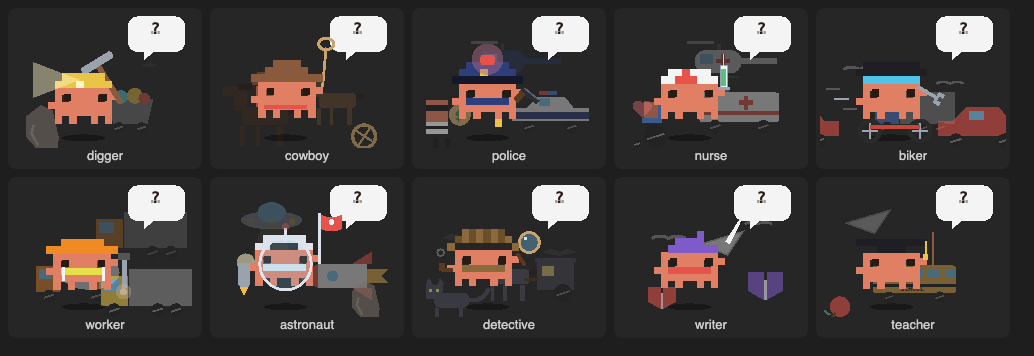
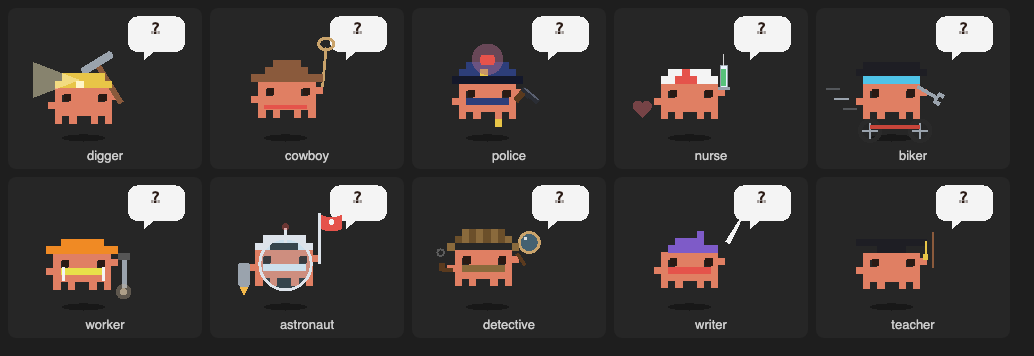
agents-panel 0.7.0: no background animation, just the character, its tool and the gag

diff --git a/mods/agents-panel/hooks/register.tsx b/mods/agents-panel/hooks/register.tsx
@@ -642,94 +642,6 @@ function useParts(c: Character, [tx, ty]: [number, number]): Use {
   }
 }
 
-// Things that pass behind the character, drawn facing left (the way they travel) from their bottom-left corner.
-const wheel = (cx: number, r = 0.6) =>
-  `<g transform="translate(${cx} ${-r})"><circle r="${r}" fill="#222"/><g>${spin('0;-360', 0.5)}<rect x="-0.08" y="${-r * 0.8}" width="0.16" height="${r * 1.6}" fill="#888"/></g></g>`
-const flap = (a: string, b: string, fill: string, dur = 0.3) =>
-  `<path d="${a}" fill="${fill}"><animate attributeName="d" values="${a};${b};${a}" dur="${dur}s"${rep}/></path>`
-const blinker = (x: number, y: number, a: string, b: string) =>
-  `<rect x="${x}" y="${y}" width="0.8" height="0.4" fill="${a}"><animate attributeName="fill" values="${a};${b}" dur="0.4s" calcMode="discrete"${rep}/></rect>`
-const MOVERS = {
-  rock: `<g>${spin('0 1.6 -1;-360 1.6 -1', 1.4)}<path d="M0 -0.2 l0.5 -1.4 1.3 -0.7 1.5 0.4 0.6 1.3 -0.6 0.8 -2.2 0z" fill="#7A7068"/><path d="M0.9 -1.5 l1 -0.3 0.6 0.3" stroke="#A09488" stroke-width="0.2" fill="none"/></g>`,
-  bat: flap('M0 0 q1 -1.2 2 0 q1 -1.2 2 0 l-2 0.6z', 'M0 0 q1 1 2 0 q1 1 2 0 l-2 0.6z', '#4A3A55', 0.25),
-  cart: `<path d="M0 -3 h4 l-0.5 2.2 h-3z" fill="#7A7A7A"/><circle cx="1.2" cy="-3.2" r="0.6" fill="#56D4DD"/><circle cx="2.4" cy="-3.3" r="0.7" fill="#E8C547"/><circle cx="3.2" cy="-3.1" r="0.5" fill="#E5534B"/>` + wheel(1, 0.5) + wheel(3, 0.5),
-  horse: (coat: string, rider: boolean) =>
-    `<g>${move('0 0;0 -0.4;0 0', 0.32)}<rect x="1" y="-3.4" width="4" height="1.6" rx="0.4" fill="${coat}"/><rect x="0.3" y="-4.8" width="1.1" height="1.8" fill="${coat}"/>` +
-    `<rect x="-0.7" y="-5.2" width="1.8" height="0.9" rx="0.3" fill="${coat}"/><rect x="0.6" y="-5.4" width="1.2" height="0.5" fill="#2A1A14"/><rect x="5" y="-3.3" width="1" height="0.5" fill="#2A1A14"/>` +
-    (rider ? `<rect x="2.2" y="-5.2" width="1.6" height="1.8" fill="#E07F63"/><rect x="1.8" y="-5.8" width="2.4" height="0.5" fill="#8A5A3C"/><rect x="2.3" y="-6.4" width="1.4" height="0.6" fill="#8A5A3C"/>` : '') + `</g>` +
-    `<g>${move('0 0;-0.5 -0.2;0.4 0;0 0', 0.32)}<rect x="1.2" y="-1.8" width="0.4" height="1.8" fill="${coat}"/><rect x="4.4" y="-1.8" width="0.4" height="1.8" fill="${coat}"/></g>` +
-    `<g>${move('0 0;0.5 -0.2;-0.4 0;0 0', 0.32)}<rect x="1.8" y="-1.8" width="0.4" height="1.8" fill="${coat}"/><rect x="3.8" y="-1.8" width="0.4" height="1.8" fill="${coat}"/></g>`,
-  tumbleweed: `<g>${spin('0 1 -1;-360 1 -1', 0.8)}<circle cx="1" cy="-1" r="1" fill="none" stroke="#C9A36B" stroke-width="0.3"/><path d="M0.3 -1.4 L1.7 -0.5 M0.5 -0.3 L1.5 -1.8" stroke="#C9A36B" stroke-width="0.2"/></g>`,
-  buzzard: flap('M0 0 q1.5 -1 3 0 q1.5 -1 3 0 l-3 0.5z', 'M0 0 q1.5 0.8 3 0 q1.5 0.8 3 0 l-3 0.5z', '#5A3A2A', 0.6),
-  policeCar: `<path d="M0 -1.2 v-1.2 h1.4 l1 -1 h2.6 l0.8 1 h1.4 v1.2z" fill="#F4F4F4"/><rect x="0" y="-2" width="7.2" height="0.6" fill="#2D3E7A"/>` +
-    blinker(2.6, -4, '#E5534B', '#4F86E0') + blinker(3.4, -4, '#4F86E0', '#E5534B') + `<rect x="2.6" y="-3.3" width="1" height="0.7" fill="#7FD1FF"/>` + wheel(1.6) + wheel(5.6),
-  robber: `<g>${move('0 0;0 -0.5;0 0', 0.3)}<rect x="0" y="-3.6" width="1.8" height="1.8" fill="#E07F63"/><rect x="0" y="-3.2" width="1.8" height="0.5" fill="#1E1E24"/>` +
-    `<rect x="0" y="-1.8" width="1.8" height="1" fill="#F4F4F4"/><rect x="0" y="-1.5" width="1.8" height="0.3" fill="#1E1E24"/>` +
-    `<circle cx="2.8" cy="-2.4" r="0.9" fill="#C9A36B"/>${word(2.35, -2, '$', '#3E7A3E', 1.1)}</g>` +
-    `<g>${move('0 0;0.4 0;-0.4 0;0 0', 0.3)}<rect x="0.2" y="-0.8" width="0.4" height="0.8" fill="#1E1E24"/><rect x="1.2" y="-0.8" width="0.4" height="0.8" fill="#1E1E24"/></g>`,
-  helicopter: (cross: boolean) =>
-    `<rect x="0.6" y="-2.6" width="3.6" height="1.8" rx="0.8" fill="${cross ? '#F4F4F4' : '#2D3E7A'}"/><rect x="4" y="-2" width="3" height="0.5" fill="${cross ? '#F4F4F4' : '#2D3E7A'}"/>` +
-    `<rect x="1" y="-2.3" width="1" height="0.8" fill="#7FD1FF"/>` + (cross ? `<rect x="2.6" y="-2.3" width="0.3" height="1.1" fill="#E5534B"/><rect x="2.2" y="-1.9" width="1.1" height="0.3" fill="#E5534B"/>` : '') +
-    `<rect x="2.3" y="-3.1" width="0.3" height="0.5" fill="#555"/><rect x="0" y="-3.3" width="5" height="0.25" fill="#999"><animate attributeName="width" values="5;0.6;5" dur="0.15s"${rep}/></rect>` +
-    `<rect x="1" y="-0.6" width="3" height="0.2" fill="#555"/>`,
-  ambulance: `<rect x="0" y="-3.6" width="7" height="2.6" rx="0.3" fill="#F4F4F4"/><rect x="0" y="-2" width="7" height="0.4" fill="#E5534B"/>` +
-    `<rect x="0.3" y="-3.2" width="1.2" height="1" fill="#7FD1FF"/><rect x="3.9" y="-3.3" width="0.4" height="1.2" fill="#E5534B"/><rect x="3.5" y="-2.9" width="1.2" height="0.4" fill="#E5534B"/>` +
-    blinker(1.8, -4, '#4F86E0', '#F4F4F4') + wheel(1.4) + wheel(5.6),
-  wheelchair: `<rect x="0.6" y="-2.6" width="1.6" height="0.4" fill="#4F86E0"/><rect x="2" y="-3.8" width="0.4" height="1.6" fill="#4F86E0"/>` +
-    `<rect x="0.8" y="-4" width="1.2" height="1.4" fill="#E07F63"/>` + wheel(1.8, 1) + wheel(0.2, 0.35),
-  car: (color: string) => `<path d="M0 -1 v-1.2 h1.2 l1.2 -1.2 h2.6 l1 1.2 h1.2 v1.2z" fill="${color}"/><rect x="2.6" y="-3" width="1.2" height="0.7" fill="#7FD1FF"/>` + wheel(1.5) + wheel(5.5),
-  truck: (color: string) => `<rect x="0" y="-3.6" width="2.4" height="2.6" fill="${color}"/><rect x="0.3" y="-3.3" width="1.3" height="1" fill="#7FD1FF"/>` +
-    `<rect x="2.5" y="-4.2" width="5.5" height="3.2" fill="#8A8A8A"/>` + wheel(1.2) + wheel(5) + wheel(6.6),
-  mixer: `<rect x="0" y="-3.4" width="2.2" height="2.4" fill="#F08A24"/><rect x="0.3" y="-3.1" width="1.2" height="0.9" fill="#7FD1FF"/>` +
-    `<g transform="translate(5 -2.8)"><ellipse rx="2.8" ry="1.6" fill="#DDD"/><g>${move('-1.6 0;1.6 0', 0.6)}<rect x="-0.3" y="-1.5" width="0.6" height="3" fill="#F08A24"/></g></g>` + wheel(1.2) + wheel(5.6),
-  rocket: `<path d="M0 -1.6 l1.8 -1 h4 v2 h-4z" fill="#F4F4F4"/><path d="M0 -1.6 l1.8 -1 v2z" fill="#E5534B"/><circle cx="3" cy="-1.6" r="0.45" fill="#7FD1FF"/>` +
-    `<path d="M4.6 -2.6 l1.6 -1 v1z M4.6 -0.6 l1.6 1 v-1z" fill="#E5534B"/>` +
-    `<path d="M5.8 -2.2 h1.8 l-0.6 0.6 0.6 0.6 h-1.8z" fill="#F2B84B"><animate attributeName="d" values="M5.8 -2.2 h1.8 l-0.6 0.6 0.6 0.6 h-1.8z;M5.8 -2.2 h2.8 l-1 0.6 1 0.6 h-2.8z;M5.8 -2.2 h1.8 l-0.6 0.6 0.6 0.6 h-1.8z" dur="0.2s"${rep}/></path>`,
-  ufo: `<ellipse cx="2.4" cy="-1.4" rx="2.4" ry="0.7" fill="#9AA3AD"/><ellipse cx="2.4" cy="-2" rx="1.1" ry="0.8" fill="#7FD1FF"/>` +
-    [0.8, 2.4, 4].map((x, i) => `<circle cx="${x}" cy="-1.3" r="0.25" fill="#E8C547">${fade('1;0.2;1', 0.6, ` begin="${i * 0.2}s"`)}</circle>`).join('') +
-    `<path d="M1.6 -0.8 h1.6 l1 3 h-3.6z" fill="#E8F99A" opacity="0.25">${fade('0;0.35;0', 1.6)}</path>`,
-  comet: `<path d="M1 -1 L6 -1.8 L6 -0.2z" fill="#7FD1FF" opacity="0.5"/><circle cx="1" cy="-1" r="0.8" fill="#FFF6C8"/>`,
-  carriage: `<rect x="5.8" y="-4.4" width="4" height="3" fill="#4A4A58"/><rect x="6.4" y="-3.9" width="1.2" height="1" fill="#F2D27A"/><rect x="5.6" y="-4.8" width="4.4" height="0.4" fill="#4A4A58"/>` +
-    `<rect x="4.4" y="-2.6" width="1.6" height="0.25" fill="#5A3A1E"/>` + wheel(8.6, 1),
-  cat: `<g>${move('0 0;0 -0.15;0 0', 0.5)}<rect x="0.6" y="-1.6" width="2.4" height="1" rx="0.3" fill="#4A4A58"/><rect x="0" y="-2.2" width="1.2" height="1" fill="#4A4A58"/>` +
-    `<path d="M0 -2.2 l0.2 -0.5 0.3 0.5z M0.8 -2.2 l0.2 -0.5 0.3 0.5z" fill="#4A4A58"/><rect x="0.2" y="-1.9" width="0.2" height="0.2" fill="#E8E04A"/><rect x="0.7" y="-1.9" width="0.2" height="0.2" fill="#E8E04A"/></g>` +
-    `<path d="M3 -1.2 q1 -0.2 1.2 -1.4" stroke="#4A4A58" stroke-width="0.3" fill="none"><animate attributeName="d" values="M3 -1.2 q1 -0.2 1.2 -1.4;M3 -1.2 q1 0.2 1.4 -0.8;M3 -1.2 q1 -0.2 1.2 -1.4" dur="0.8s"${rep}/></path>` +
-    `<g>${move('0 0;0.3 0;-0.3 0;0 0', 0.5)}<rect x="0.8" y="-0.6" width="0.3" height="0.6" fill="#4A4A58"/><rect x="2.5" y="-0.6" width="0.3" height="0.6" fill="#4A4A58"/></g>`,
-  crow: flap('M0 0 q1 -0.8 2 0 q1 -0.8 2 0 l-2 0.4z', 'M0 0 q1 0.8 2 0 q1 0.8 2 0 l-2 0.4z', '#4A4A58', 0.4),
-  bird: flap('M0 0 q0.8 -0.8 1.6 0 q0.8 -0.8 1.6 0', 'M0 0 q0.8 0.6 1.6 0 q0.8 0.6 1.6 0', 'none', 0.35).replace('fill="none"', 'fill="none" stroke="#DDE3EA" stroke-width="0.3"'),
-  plane: `<g>${move('0 0;0 -0.5;0 0', 1.2)}<path d="M0 -1.4 l3.4 -1 -1.2 1.8z M0 -1.4 l2.2 0.8" fill="#F4F4F4" stroke="#BBB" stroke-width="0.12"/></g>`,
-  book: (color: string) => `<g>${move('0 0;0 -0.6;0 0', 1)}<rect x="1" y="-1.6" width="0.2" height="1.4" fill="#F4F4F4"/>` +
-    flap('M1 -0.2 l-1.2 -0.4 v-1.4 l1.2 0.4z', 'M1 -0.2 l-1 -1 v-1.2 l1 -0.6z', color, 0.5) + flap('M1.2 -0.2 l1.2 -0.4 v-1.4 l-1.2 0.4z', 'M1.2 -0.2 l1 -1 v-1.2 l-1 -0.6z', color, 0.5) + `</g>`,
-  bus: `<rect x="0" y="-4" width="9" height="3" rx="0.4" fill="#F2B84B"/><rect x="0" y="-2" width="9" height="0.3" fill="#1E1E24"/>` +
-    [0.6, 2.4, 4.2, 6, 7.8].map(x => `<rect x="${x}" y="-3.6" width="1.2" height="1" fill="#7FD1FF"/>`).join('') + word(3, -1.25, 'SCHOOL', '#1E1E24', 0.7) + wheel(1.8) + wheel(7.2),
-  apple: `<g>${spin('0 0.8 -0.8;-360 0.8 -0.8', 1)}<circle cx="0.8" cy="-0.8" r="0.8" fill="#E5534B"/><rect x="0.7" y="-1.9" width="0.2" height="0.5" fill="#6B4A2E"/><path d="M0.9 -1.7 q0.5 -0.4 0.8 0" fill="#5BB37F"/></g>`,
-}
-const at = (x: number, y: number, s: number, svg: string) => `<g transform="translate(${x} ${y}) scale(${s})">${svg}</g>`
-
-// What passes behind each character, far to near: only moving things, no landscape.
-function sceneryOf(c: Character): [string, string, string] {
-  const M = MOVERS
-  switch (c) {
-    case 'digger': return [at(2, 6, 1.6, M.bat) + at(15, 3, 1.3, M.bat), at(12, 13, 1.6, M.cart), at(1, 15, 1.8, M.rock)]
-    case 'cowboy': return [at(4, 4, 1.4, M.buzzard), at(12, 12, 1.3, M.horse('#6B4A2E', false)), at(2, 15, 1.6, M.horse('#3A2A20', true)) + at(19, 15, 1.6, M.tumbleweed)]
-    case 'police': return [at(6, 6, 1.8, M.helicopter(false)), at(12, 13, 1.5, M.policeCar), at(1, 15, 1.7, M.robber)]
-    case 'nurse': return [at(8, 6, 1.8, M.helicopter(true)), at(10, 13, 1.6, M.ambulance), at(2, 15, 1.6, M.wheelchair)]
-    case 'biker': return [at(3, 4, 1.4, M.bird) + at(16, 6, 1.2, M.bird), at(10, 13, 1.4, M.truck('#4F86E0')), at(0, 15, 1.7, M.car('#E5534B'))]
-    case 'worker': return [at(10, 7, 1.6, M.truck('#F08A24')), at(2, 13, 1.5, M.mixer), at(12, 15, 1.6, M.truck('#E8C547'))]
-    case 'astronaut': return [at(2, 4, 1.8, M.ufo), at(10, 12, 1.7, M.rocket), at(2, 9, 1.6, M.comet) + at(18, 15, 1.5, M.rock)]
-    case 'detective': return [at(2, 4, 1.5, M.crow) + at(16, 6, 1.2, M.crow), at(8, 13, 1.3, M.horse('#5A5A68', false) + M.carriage), at(1, 15, 2, M.cat)]
-    case 'writer': return [at(3, 4, 1.5, M.bird) + at(16, 2, 1.2, M.bird), at(10, 8, 1.8, M.plane), at(18, 14, 2, M.book('#7E5BC8')) + at(4, 15, 1.6, M.book('#E5534B'))]
-    case 'teacher': return [at(2, 5, 1.8, M.plane) + at(16, 2, 1.4, M.plane), at(6, 13, 1.3, M.bus), at(1, 15, 1.8, M.apple)]
-  }
-}
-
-function backdropSvg(c: Character, busy: boolean) {
-  const speeds = c === 'biker' ? [6, 2.4, 0.9] : c === 'astronaut' ? [40, 20, 9] : busy ? [16, 8, 3.2] : [32, 16, 6.4]
-  const opacity = [0.25, 0.4, 0.55]
-  return `<g class="parallax">` + sceneryOf(c).map((tile, i) =>
-    `<g opacity="${opacity[i]}"><g>${move('0 0;-26 0', speeds[i]!, ' calcMode="linear"')}${tile}<g transform="translate(26 0)">${tile}</g></g></g>`).join('') + `</g>`
-}
-
 // A commit pops a green stamp with confetti; a push launches an arrow. Each plays a few times, then hides.
 function eventSvg(kind: 'commit' | 'push') {
   const once = ' repeatCount="3" fill="freeze"'
@@ -851,7 +763,7 @@ function avatarSvg(index: number, c: Character, sprites: Sprites, opts: AvatarOp
   const shadow = `<ellipse cx="8" cy="13.6" rx="3" ry="0.5" fill="#000" opacity="0.35">${shadowShrink}</ellipse>`
   const object = act ? `<g>${use?.react ?? ''}<g transform="translate(3 0)">${act.object}</g>${use?.hit ?? ''}</g>` : ''
   return `<svg xmlns="http://www.w3.org/2000/svg" viewBox="-2 -4 26 19" shape-rendering="crispEdges">` +
-    `${live ? backdropSvg(c, busy) : ''}${shadow}${object}<g>${tricks}${figure}${part.gear}</g>${act?.under ?? ''}` +
+    `${shadow}${object}<g>${tricks}${figure}${part.gear}</g>${act?.under ?? ''}` +
     `${live ? gagsSvg(opts.elapsedMs ?? 0) : ''}${opts.event ? eventSvg(opts.event) : ''}</svg>`
 }
 

diff --git a/mods/agents-panel/tests/pane.test.tsx b/mods/agents-panel/tests/pane.test.tsx
@@ -103,7 +103,7 @@ test('a commit by an agent pops the commit stamp on its sprite', async ($, on) =
   await ui.unmount()
 })
 
-test('a busy character keeps its own tool and uses it on the work, over scrolling scenery', { options: { character: 'police' } }, async ($, on) => {
+test('a busy character keeps its own tool and uses it on the work', { options: { character: 'police' } }, async ($, on) => {
   on('tool.call', () => ({ result: 'ok' }))
   await setup($, on)
   await $.tool.call({ tool: 'Read', file_path: '/x.md', agentId: 'a1' })
@@ -113,7 +113,7 @@ test('a busy character keeps its own tool and uses it on the work, over scrollin
   const source = String(reading?.source)
   expect(source).toContain('#2A2D34')
   expect(source).toContain('BANG!')
-  expect(source.match(/class="parallax"/g)).toHaveLength(1)
+  expect(source).not.toContain('parallax')
   expect(source).not.toMatch(/type="rotate"[^>]*additive="sum"/)
   expect(String(thinking?.source)).toContain('#2A2D34')
   await ui.unmount()

diff --git a/mods/agents-panel/README.md b/mods/agents-panel/README.md
@@ -54,27 +54,23 @@ Each batch of agents launched from one prompt is a **run**, titled with that pro
 
 ![The ten characters](../../docs/screenshots/agents-panel-characters.png)
 
-*Each character thinking in its own scenery, rendered from the mod's own SVGs.*
+*Each character thinking, rendered from the mod's own SVGs.*
 
 Each agent is drawn as the character that suits its role, read from its agent type and description (the
 first match in this table wins):
 
-| Role words | Character | Look | Tool | Passing by |
-|---|---|---|---|---|
-| explore, research, search, web… | detective | deerstalker, coat, pipe puffing smoke rings | magnifying glass | crows, a horse-drawn cab, a prowling black cat |
-| plan, architect, coordinate, design… | astronaut | helmet bubble, antenna, jetpack | flag | a UFO, comets, a rocket, tumbling asteroids |
-| review, check, audit, verify, security… | police | cap, badge, flashing siren | pistol, twirled on a finger | a police helicopter, a squad car, a robber running off with the loot |
-| test, QA, debug… | nurse | cap with a red cross; hearts float up | syringe, squirting a test drop | a medical helicopter, an ambulance, a runaway wheelchair |
-| write, doc, book, author… | writer | purple beret and red scarf | quill | birds, paper planes, flapping books |
-| train, teach, tutor, guide, lab… | teacher | mortarboard with a swinging tassel | pointer | paper planes, a school bus, a rolling apple |
-| setup, config, deploy, ops… | cowboy | wide-brim hat, red bandana | lasso | a buzzard, wild horses, a rider at full gallop, a tumbleweed |
-| fork, teammate, fast… | biker | helmet and visor, spinning wheels | wrench | birds, a truck, a speeding car |
-| build, refactor, fix, implement… | worker | hard hat, hi-vis vest | jackhammer | dump trucks, a cement mixer |
-| dev, engineer, code, general… | digger | miner's helmet with a lamp beam | pickaxe | bats, a mine cart full of gems, rolling rocks |
-
-Behind the character, big dimmed shapes pass by in three layers at different speeds (parallax): the
-furthest are faintest and slowest, the nearest clearest and fastest. There is no painted landscape, only moving things. They go faster while the
-agent uses a tool, slower while it thinks, very fast for the biker and drift slowly in space.
+| Role words | Character | Look | Tool |
+|---|---|---|---|
+| explore, research, search, web… | detective | deerstalker, coat, pipe puffing smoke rings | magnifying glass |
+| plan, architect, coordinate, design… | astronaut | helmet bubble, antenna, jetpack | flag |
+| review, check, audit, verify, security… | police | cap, badge, flashing siren | pistol, twirled on a finger |
+| test, QA, debug… | nurse | cap with a red cross; hearts float up | syringe, squirting a test drop |
+| write, doc, book, author… | writer | purple beret and red scarf | quill |
+| train, teach, tutor, guide, lab… | teacher | mortarboard with a swinging tassel | pointer |
+| setup, config, deploy, ops… | cowboy | wide-brim hat, red bandana | lasso |
+| fork, teammate, fast… | biker | helmet and visor, spinning wheels | wrench |
+| build, refactor, fix, implement… | worker | hard hat, hi-vis vest | jackhammer |
+| dev, engineer, code, general… | digger | miner's helmet with a lamp beam | pickaxe |
 
 An agent whose role matches nothing gets a character picked from its type, the same one every time. The
 `character` option can instead rotate through them or use one for every agent (see
@@ -174,7 +170,7 @@ In testing, tokens, tool counts and durations matched Claude Code's own completi
 |---|---|
 | `hooks/register.tsx` | Hooks (agent spawn, model steps, tool calls, turn end), the pane, and the character SVGs. |
 | `types/index.d.ts` | The state contract (`agents`, `runs`, `collapsed`, `now`); each agent keeps its last tool and when it used it. |
-| `tests/pane.test.tsx` | Rows, totals, characters by role, activities from tool calls, the `character` option, the commit stamp, and tools and scenery while busy. |
+| `tests/pane.test.tsx` | Rows, totals, characters by role, activities from tool calls, the `character` option, the commit stamp, and tools while busy. |
 
 ```bash
 claude plugin validate mods/agents-panel
@@ -190,6 +186,7 @@ The mod also registers a read-only tool, `mcp__agents-panel__state`, that return
 
 | Version | Changes |
 |---|---|
+| 0.7.0 | No background animation: just the character, its tool and the gag. |
 | 0.6.2 | The passing things are drawn large across the background. |
 | 0.6.1 | The parallax shows only moving things (horses, an ambulance, a rocket, rolling rocks…), no landscape. |
 | 0.6.0 | Characters keep their tool while they work and use it on what they work on (pickaxe, lasso, pistol, syringe, wrench, jackhammer, flag, magnifier, quill, pointer); three-layer parallax scenery for each character. |
